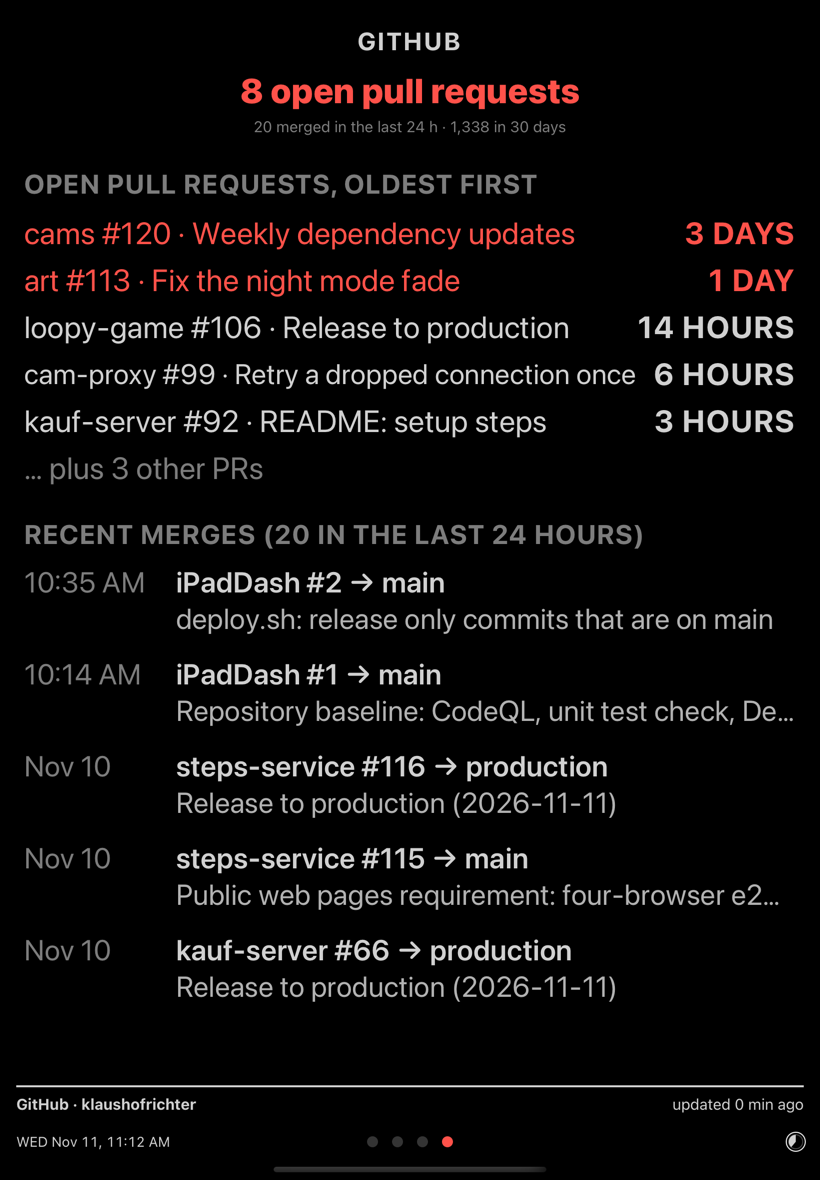
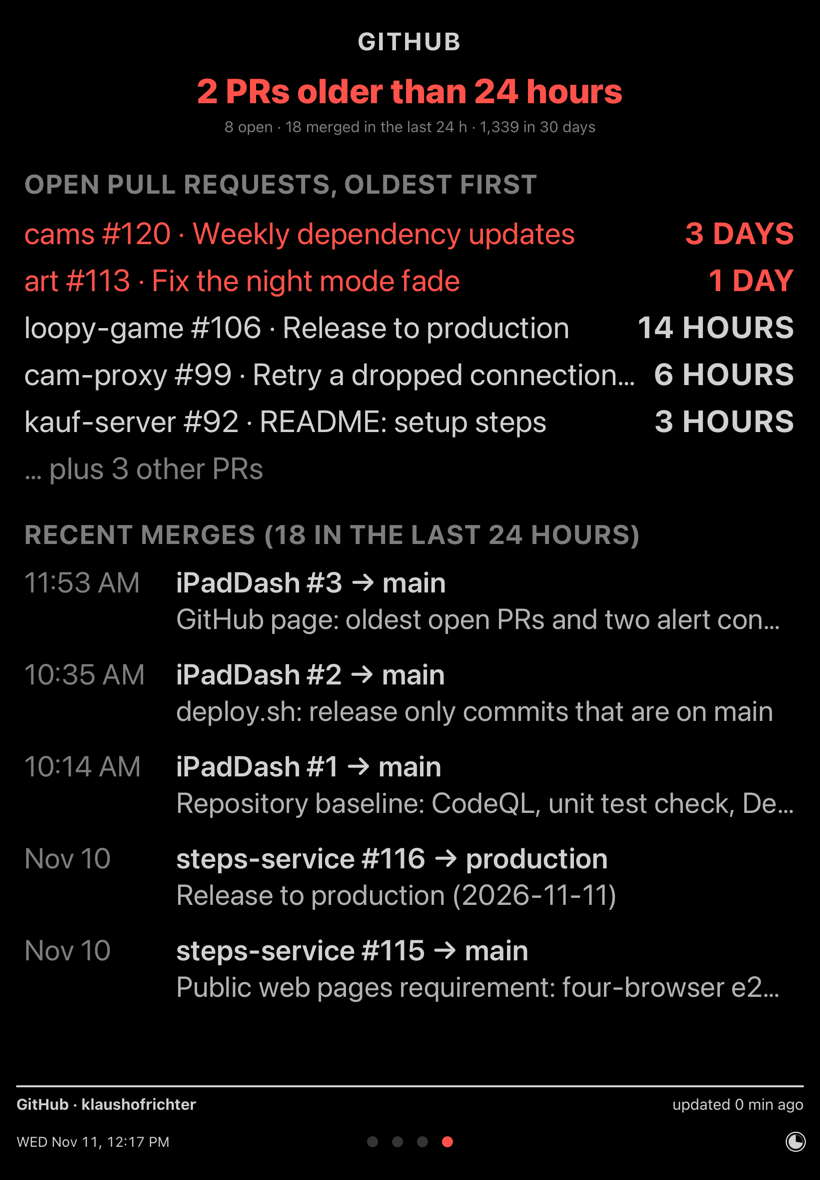
GitHub headline names the alert; summary uses the same words; fix squeezed summary row
- The GitHub headline says what turned it red, the more urgent first:
  "2 PRs older than 24 hours", else "8 PRs older than 15 minutes", else the
  open count. The open count moves to the line below while an alert shows.
- The summary's GitHub alerts use the same words, overdue first.
- Summary fix: the fallback constraint that lifts the clock area when nothing is
  red had the same priority as the labels' compression resistance, and could
  squeeze a red row to zero height (a row without detail text lost). It is
  now below every label's priority. New test for it.

diff --git a/iPadDashTests/ModelTests.swift b/iPadDashTests/ModelTests.swift
@@ -262,25 +262,30 @@ final class ModelTests: XCTestCase {
         }
         var s = GitHubSnapshot()
         XCTAssertEqual(s.alerts(now: now), [])
+        XCTAssertEqual(s.headline(now: now), "0 open pull requests")
 
-        // Four young PRs: no alert. Five: one.
+        // Four young PRs: no alert. Five: one, and the headline says so.
         s.openPRs = (0..<4).map { _ in pr("art", hours: 2) }
         s.openCount = 4
         XCTAssertEqual(s.alerts(now: now), [])
+        XCTAssertEqual(s.headline(now: now), "4 open pull requests")
         s.openPRs.append(pr("cams", hours: 3))
         s.openCount = 5
-        XCTAssertEqual(s.alerts(now: now), [PageAlert("5 open PRs", "older than 15 minutes")])
+        XCTAssertEqual(s.alerts(now: now), [PageAlert("5 PRs older than 15 minutes")])
+        XCTAssertEqual(s.headline(now: now), "5 PRs older than 15 minutes")
 
         // One PR older than a day is an alert on its own, naming its repository.
         s.openPRs = [pr("art", hours: 49)]
         s.openCount = 1
-        XCTAssertEqual(s.alerts(now: now), [PageAlert("Open PR in art", "for 2 days")])
+        XCTAssertEqual(s.alerts(now: now), [PageAlert("1 PR older than 24 hours", "art, 2 days")])
+        XCTAssertEqual(s.headline(now: now), "1 PR older than 24 hours")
 
-        // Several overdue: counted, with the oldest's age; plus the many-open alert.
+        // Both: the overdue ones first, on the summary and in the headline.
         s.openPRs = [pr("art", hours: 75), pr("cams", hours: 30)] + (0..<4).map { _ in pr("x", hours: 1) }
         s.openCount = 6
-        XCTAssertEqual(s.alerts(now: now), [PageAlert("6 open PRs", "older than 15 minutes"),
-                                            PageAlert("2 open PRs", "older than 1 day, oldest 3 days")])
+        XCTAssertEqual(s.alerts(now: now), [PageAlert("2 PRs older than 24 hours", "oldest 3 days"),
+                                            PageAlert("6 PRs older than 15 minutes")])
+        XCTAssertEqual(s.headline(now: now), "2 PRs older than 24 hours")
         XCTAssertEqual(s.overdue(now: now).map { $0.repo }, ["art", "cams"])
     }
 

diff --git a/iPadDash/GitHubService.swift b/iPadDash/GitHubService.swift
@@ -41,24 +41,26 @@ struct GitHubSnapshot {
         return openPRs.filter { now.timeIntervalSince($0.created) > GitHubSnapshot.overdueAge }
     }
 
-    /// "6 open PRs · older than 15 minutes", and "Open PR in art · for 2 days" or
-    /// "3 open PRs · older than 1 day, oldest 4 days".
+    /// What turns the page red, the more urgent first, worded as on the page's
+    /// headline: "2 PRs older than 24 hours · oldest 3 days" (one: "1 PR older than
+    /// 24 hours · art, 2 days"), then "8 PRs older than 15 minutes".
     func alerts(now: Date) -> [PageAlert] {
         var alerts: [PageAlert] = []
-        if openCount >= GitHubSnapshot.manyOpen {
-            alerts.append(PageAlert(counted(openCount, "open PR"), "older than \(durationText(openPRMinAge))"))
-        }
         let overdue = self.overdue(now: now)
         if let oldest = overdue.first {
             let age = durationText(now.timeIntervalSince(oldest.created))
-            if overdue.count == 1 {
-                alerts.append(PageAlert("Open PR in \(oldest.repo)", "for \(age)"))
-            } else {
-                alerts.append(PageAlert(counted(overdue.count, "open PR"),
-                                        "older than \(durationText(GitHubSnapshot.overdueAge)), oldest \(age)"))
-            }
+            alerts.append(PageAlert("\(counted(overdue.count, "PR")) older than 24 hours",
+                                    overdue.count == 1 ? "\(oldest.repo), \(age)" : "oldest \(age)"))
+        }
+        if openCount >= GitHubSnapshot.manyOpen {
+            alerts.append(PageAlert("\(counted(openCount, "PR")) older than \(durationText(openPRMinAge))"))
         }
         return alerts
+    }
+
+    /// The page's headline: the most urgent alert, else the open count.
+    func headline(now: Date) -> String {
+        return alerts(now: now).first?.what ?? counted(openCount, "open pull request")
     }
 }
 

diff --git a/iPadDashTests/PageTests.swift b/iPadDashTests/PageTests.swift
@@ -231,4 +231,21 @@ final class PageTests: XCTestCase {
         }
         XCTAssertLessThan(sectionCounts(summary(redItems: 9))[0], 4, "nine red items leave no room for the graph")
     }
+
+    /// A red item without detail ("8 PRs older than 15 minutes") is a full row too.
+    func testSummaryShowsRowsWithoutDetail() {
+        let source = FakePage()
+        let page = SummaryPageViewController()
+        page.sources = [source]
+        page.loadViewIfNeeded()
+        source.alerts = [PageAlert("One", "red"), PageAlert("Two"), PageAlert("Three", "red")]
+        _ = sectionCounts(page, passes: 1)
+        let rows = descendants(of: page.view).compactMap { $0 as? KeyValueRow }.filter { !$0.isHidden }
+        XCTAssertEqual(rows.count, 3)
+        for row in rows { XCTAssertGreaterThan(row.frame.height, 20, "row \(row.keyLabel.text ?? "") collapsed") }
+    }
+
+    private func descendants(of view: UIView) -> [UIView] {
+        return view.subviews + view.subviews.flatMap { descendants(of: $0) }
+    }
 }

diff --git a/iPadDash/GitHubPageViewController.swift b/iPadDash/GitHubPageViewController.swift
@@ -119,8 +119,10 @@ final class GitHubPageViewController: DashboardPageViewController {
     override func render() {
         let now = Date()
         if let s = snapshot {
-            heroLabel.set(counted(s.openCount, "open pull request"))
-            summaryLabel.set("\(groupedNumber(s.merged24h)) merged in the last 24 h · \(groupedNumber(s.merged30d)) in 30 days")
+            heroLabel.set(s.headline(now: now))
+            // The open count stays in view when the headline names an alert instead.
+            let open = s.alerts(now: now).isEmpty ? "" : "\(groupedNumber(s.openCount)) open · "
+            summaryLabel.set("\(open)\(groupedNumber(s.merged24h)) merged in the last 24 h · \(groupedNumber(s.merged30d)) in 30 days")
             let recent: String
             switch s.merged24h {
             case 0: recent = "none"

diff --git a/iPadDash/SummaryPageViewController.swift b/iPadDash/SummaryPageViewController.swift
@@ -88,8 +88,10 @@ final class SummaryPageViewController: DashboardPageViewController {
             v.translatesAutoresizingMaskIntoConstraints = false
             view.addSubview(v)
         }
+        // Only a fallback for when nothing is red (lowerBelowRows off). Below every
+        // label's resistance to squeezing, or it squeezes a red row to nothing.
         let lowerAtTop = lowerArea.topAnchor.constraint(equalTo: content.topAnchor)
-        lowerAtTop.priority = .defaultHigh
+        lowerAtTop.priority = UILayoutPriority(UILayoutPriority.defaultLow.rawValue - 1)
         NSLayoutConstraint.activate([
             alertHeading.topAnchor.constraint(equalTo: content.topAnchor),
             alertHeading.leadingAnchor.constraint(equalTo: content.leadingAnchor),

diff --git a/iPadDash/ClusterViews.swift b/iPadDash/ClusterViews.swift
@@ -61,6 +61,8 @@ final class KeyValueRow: UIView {
     func set(_ key: String, _ value: String, alert: Bool = false) {
         keyLabel.set(key)
         valueLabel.set(value)
+        // An empty value label has no height, and would take the whole row down with it.
+        valueLabel.isHidden = value.isEmpty
         keyLabel.alert = alert
         valueLabel.alert = alert
     }

diff --git a/README.md b/README.md
@@ -119,11 +119,13 @@ The oldest open pull requests with their age (up to five, then "… plus 3 other
 PRs"), and the most recent merges with their target branch. Two things turn it red:
 five or more open pull requests, and any pull request open for more than a day,
 whose row is red too. Pull requests younger than 15 minutes are taken to be work in
-progress and left out.
+progress and left out. When the page is red, its headline names what turned it red,
+the more urgent first: "2 PRs older than 24 hours", or "8 PRs older than 15 minutes".
+The summary page lists the same alerts in the same words.
 
 <p>
   <img src="docs/screenshots/github.png" width="32%" alt="GitHub page: three open pull requests, oldest first, and recent merges">
-  <img src="docs/screenshots/github-many.png" width="32%" alt="GitHub page: eight open pull requests, two of them older than a day in red">
+  <img src="docs/screenshots/github-many.png" width="32%" alt="GitHub page: headline 2 PRs older than 24 hours, those two rows in red">
 </p>
 
 ### Network & Battery
